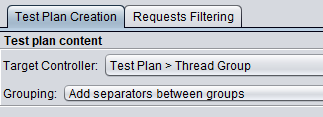
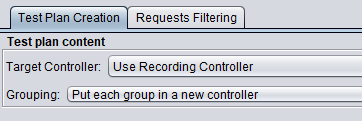
Added file on project PETCLINIC.md

diff --git a/JMETER.md b/JMETER.md
@@ -58,29 +58,58 @@ Tick Use project rule
 Path to rule file in workspace :  parserules    
 
 
-##FOR PETCLINIC PROJECT
+## PART PETCLINIC PROJECT
 ### Recording a test plan for Petclinic website
-Install Firefox and download an add-on named FoxyProxy  
+Install Firefox and setup the add-on named FoxyProxy  
 In foxyproxy added a proxy  
-Enter a title Jmeter  
-Proxy Type is HTTP    
-Proxy IP is localhost  
+Enter a title Jmeter    
+Proxy Type is HTTP  
+Proxy IP is localhost    
 Port is 8888  
-no username or password  
+no username or password    
 
 ![FoxyProxy](screenshots/foxyproxy.png)
 
 ### Create Test plan
+Start with your mouse over test plan and right click on it.    
+ menu  Add -> Thread -> Thread Group  
 Righ click on Test plan -> Add -> Non-test-elements -> HTTPS Test Script Recorder
-
 ![FoxyProxy](screenshots/Test_recorder.png)  
-
+In taget controller select Test Plan ->Thread Group 
+Grouping : Put each group in a new controller
 Click on tab Request Filtering  
 Click Add in URL Patterns to Exclude   
 Copy and paste these excluded files    
 ```shell script
    .*\.(txt|bmp|css|js|gif|ico|jpe?g|png|swf|woff|woff2|ttf).*
 ```
+switch firefox browser to user jmeter port  
+click on start in Https test scritp recorder   
+Open a tab an copy paste your petclinic URL   
+```shell script
+     http://<your ip address>:9090/petclinic  
+```
+Accept the temporary certificates created by JMeter   
+Check if jmeter is recording all your actions by clicking on Thread Group   
+Click on find owners, click add owner  
+fill in all details   
+and click add owner   
+select veterinarians  
+go back to find owners  
+enter your name in last name and hit find owner   
+Stop recording in the small jmeter windows  
+Click file, select Save Test Plan As    
+Save your test plan to your git repo  as petclinic_test_plan.jmx
+
+### Set JMeter variables
+As we have done for hello-world-jmeter set Test plan variable   
+Add HTTP Requests Defaults variables
+Remove all IP and port from other HTTP Request action
+Move over Thread group -> right click -> Add -> Listener -> View Results Tree 
+
+
+
+
 
 ## Create a Jenkins Job
 ### Define 

diff --git a/PETCLINIC.md b/PETCLINIC.md
@@ -75,4 +75,5 @@ docker build -t petclinic:latest .
 ``` 
 
   ## Step 6 -- Set up JMeter test 
-    
+  go to JMETER.md file see the PART PETCLINIC PROJECT
+  
